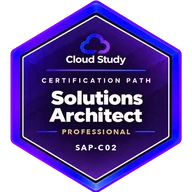
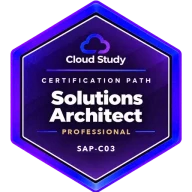
feat(launch): SAP-C03 na oferta, com mapa novo e 4.321 questoes
A landing ainda oferecia a SAP-C02, que a AWS troca em 17/11/2026, e o total de
questoes nao contava os 6 modulos novos. Codigo, mapa, selo e o numero publico
passam a refletir a trilha nova; o preco segue R$ 159,90.

Risco: publicar so depois do deploy da migration 20261105_0061 no app.

Validacao: 17 testes, typecheck e build. Telas aprovadas pelo titular em
05/11/2026.

diff --git a/components/launch/launch-numbers.tsx b/components/launch/launch-numbers.tsx
@@ -1,13 +1,13 @@
 // Totais gerais (as 6 certificações publicadas somadas). Base: banco local novo, migrado até
-// 20261104_0060 e com seed, em 04/11/2026 (simulation_sets full_exam e questions publicadas):
-// CLF 10/720, SAA 10/705, AIF 10/665, SAP 10/750, DVA 10/651, DEA 10/650 = 60 provas completas e
-// 4.141 questões. A SAP usa provas de 75 questões, por isso o rótulo não cita 65. O código NÃO
-// prova o que está publicado em produção: a DEA só vale depois do deploy da 0060 na master do
+// 20261105_0061 e com seed, em 05/11/2026 (simulation_sets full_exam e questions publicadas):
+// CLF 10/720, SAA 10/705, AIF 10/665, SAP 10/930, DVA 10/651, DEA 10/650 = 60 provas completas e
+// 4.321 questões. A SAP usa provas de 75 questões, por isso o rótulo não cita 65. O código NÃO
+// prova o que está publicado em produção: a SAP-C03 só vale depois do deploy da 0061 na master do
 // app; confirmar o catálogo da API antes de anúncios.
 const numbers = [
   { label: "certificações AWS", value: "6" },
   { label: "simulados completos no formato da prova", value: "60" },
-  { label: "questões com explicação", value: "+4.100" },
+  { label: "questões com explicação", value: "+4.300" },
   { label: "para começar, sem cartão", value: "R$ 0" },
 ] as const;
 

diff --git a/components/launch/pricing-section.tsx b/components/launch/pricing-section.tsx
@@ -7,7 +7,7 @@ const freeFeatures = [
   "Aulas selecionadas da certificação",
   "12 flashcards para fixar o conteúdo",
   "Diagnóstico de 10 questões",
-  "Escolha CLF-C02, SAA-C03, AIF-C01, SAP-C02, DVA-C03 ou DEA-C01",
+  "Escolha CLF-C02, SAA-C03, AIF-C01, SAP-C03, DVA-C03 ou DEA-C01",
 ] as const;
 
 const allAccessFeatures = [
@@ -21,7 +21,7 @@ const lifetimeOffers = [
   { code: "CLF-C02", name: "Cloud Practitioner", cents: LIFETIME_PRICES_CENTS["CLF-C02"] },
   { code: "AIF-C01", name: "AI Practitioner", cents: LIFETIME_PRICES_CENTS["AIF-C01"] },
   { code: "SAA-C03", name: "Solutions Architect", cents: LIFETIME_PRICES_CENTS["SAA-C03"] },
-  { code: "SAP-C02", name: "Solutions Architect Professional", cents: LIFETIME_PRICES_CENTS["SAP-C02"] },
+  { code: "SAP-C03", name: "Solutions Architect Professional", cents: LIFETIME_PRICES_CENTS["SAP-C03"] },
   { code: "DVA-C03", name: "Developer Associate", cents: LIFETIME_PRICES_CENTS["DVA-C03"] },
   { code: "DEA-C01", name: "Data Engineer Associate", cents: LIFETIME_PRICES_CENTS["DEA-C01"] },
 ] as const;

diff --git a/lib/launch-pricing.ts b/lib/launch-pricing.ts
@@ -1,7 +1,7 @@
 // Valores públicos exibidos na landing.
 //
 // Fonte de verdade: catálogo comercial do backend (System_Dashboard,
-// api/alembic: 20260928_0036, 20260930_0038, 20261030_0048, 20261103_0054 e 20261104_0059). A landing não consulta o backend,
+// api/alembic: 20260928_0036, 20260930_0038, 20261030_0048, 20261103_0054 e 20261104_0059; código SAP-C03 em 20261105_0061). A landing não consulta o backend,
 // então qualquer mudança de preço no catálogo precisa ser refletida aqui.
 // O teste em tests/ fixa estes valores para que a divergência seja notada.
 
@@ -11,7 +11,7 @@ export const LIFETIME_PRICES_CENTS = {
   "CLF-C02": 12990,
   "AIF-C01": 12990,
   "SAA-C03": 15990,
-  "SAP-C02": 15990,
+  "SAP-C03": 15990,
   "DVA-C03": 15990,
   "DEA-C01": 15990,
 } as const;

diff --git a/components/launch/launch-hero.tsx b/components/launch/launch-hero.tsx
@@ -34,7 +34,7 @@ const heroMaps = [
   },
   {
     alt: "Mapa do tesouro com a trilha de módulos do Solutions Architect Professional, do início da jornada até a certificação.",
-    code: "SAP-C02",
+    code: "SAP-C03",
     src: "/launch-assets/map-sap.webp",
   },
   {
@@ -89,7 +89,7 @@ export function LaunchHero() {
           <span>
             <span className="whitespace-nowrap">CLF-C02 · SAA-C03 · AIF-C01</span>{" "}
             <span className="hidden sm:inline">· </span>
-            <span className="whitespace-nowrap">SAP-C02 · DVA-C03 · DEA-C01</span>
+            <span className="whitespace-nowrap">SAP-C03 · DVA-C03 · DEA-C01</span>
           </span>
         </p>
 

diff --git a/components/launch/certification-paths-section.tsx b/components/launch/certification-paths-section.tsx
@@ -43,7 +43,7 @@ const certificationPaths: readonly CertificationPath[] = [
   },
   {
     badge: "/launch-assets/badge-sap.webp",
-    code: "SAP-C02",
+    code: "SAP-C03",
     description: "Avance para o nível Professional: organizações multi-conta, redes em escala, migração e otimização contínua.",
     map: "/launch-assets/map-sap.webp",
     title: "AWS Certified Solutions Architect – Professional",
